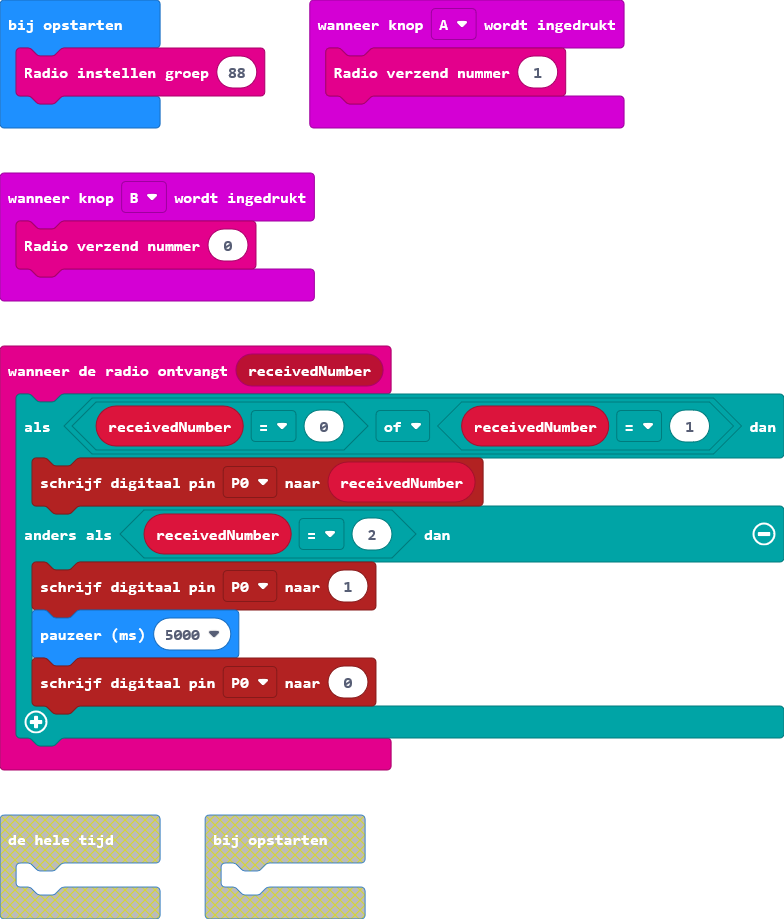
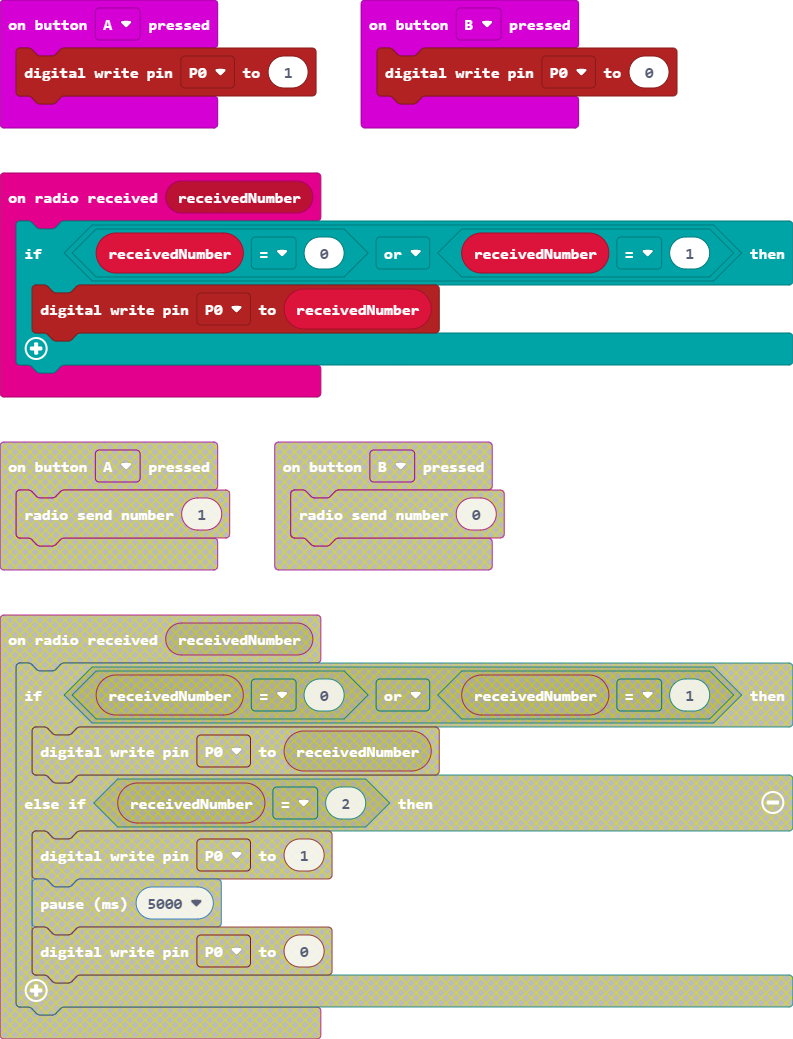
Fix

diff --git a/main.ts b/main.ts
@@ -1,16 +1,12 @@
 radio.onReceivedNumber(function (receivedNumber) {
     if (receivedNumber == 0 || receivedNumber == 1) {
         pins.digitalWritePin(DigitalPin.P0, receivedNumber)
-    } else if (receivedNumber == 2) {
-        pins.digitalWritePin(DigitalPin.P0, 1)
-        basic.pause(5000)
-        pins.digitalWritePin(DigitalPin.P0, 0)
     }
 })
 input.onButtonPressed(Button.A, function () {
-    radio.sendNumber(1)
+    pins.digitalWritePin(DigitalPin.P0, 1)
 })
 input.onButtonPressed(Button.B, function () {
-    radio.sendNumber(0)
+    pins.digitalWritePin(DigitalPin.P0, 0)
 })
 radio.setGroup(88)
